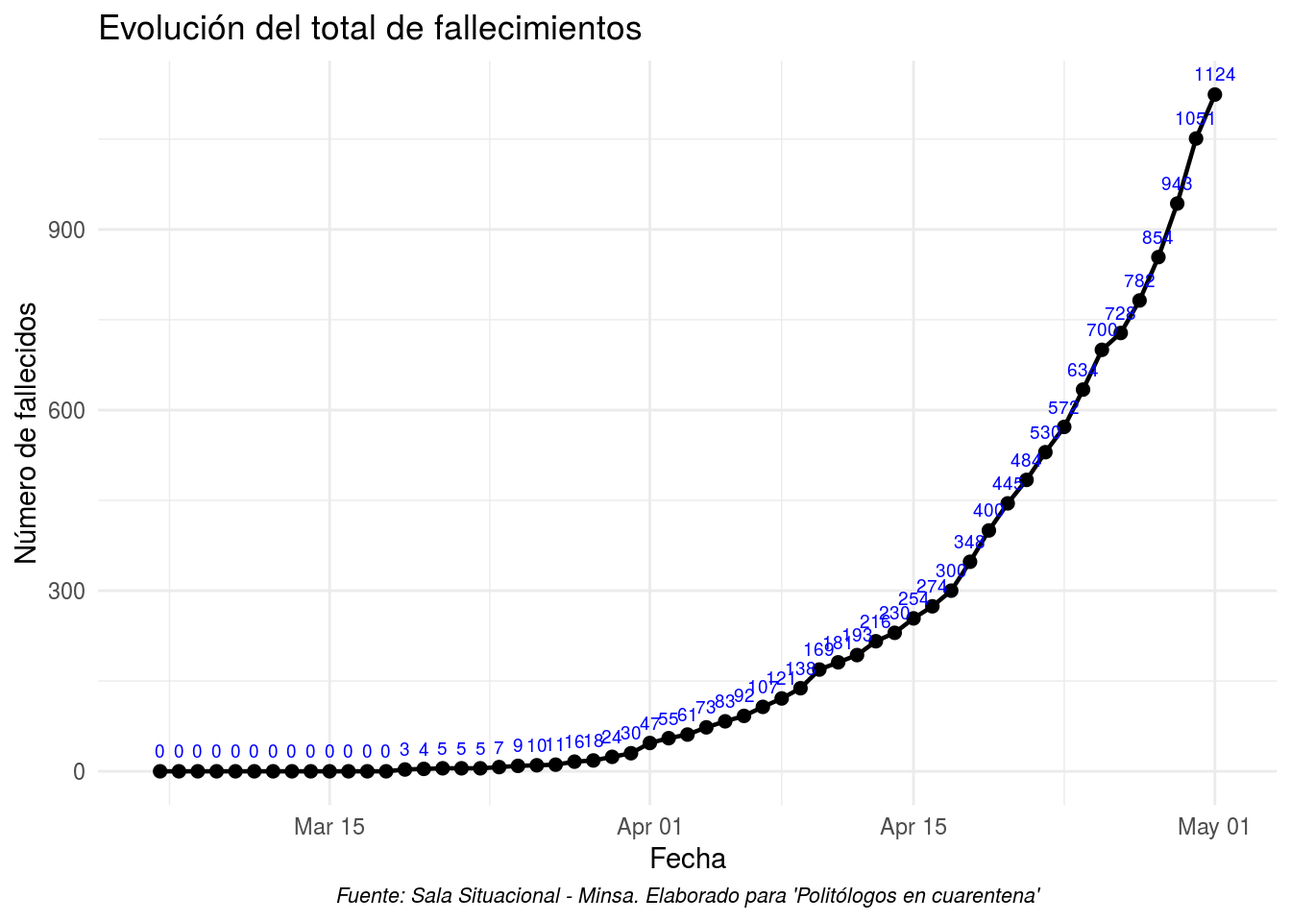
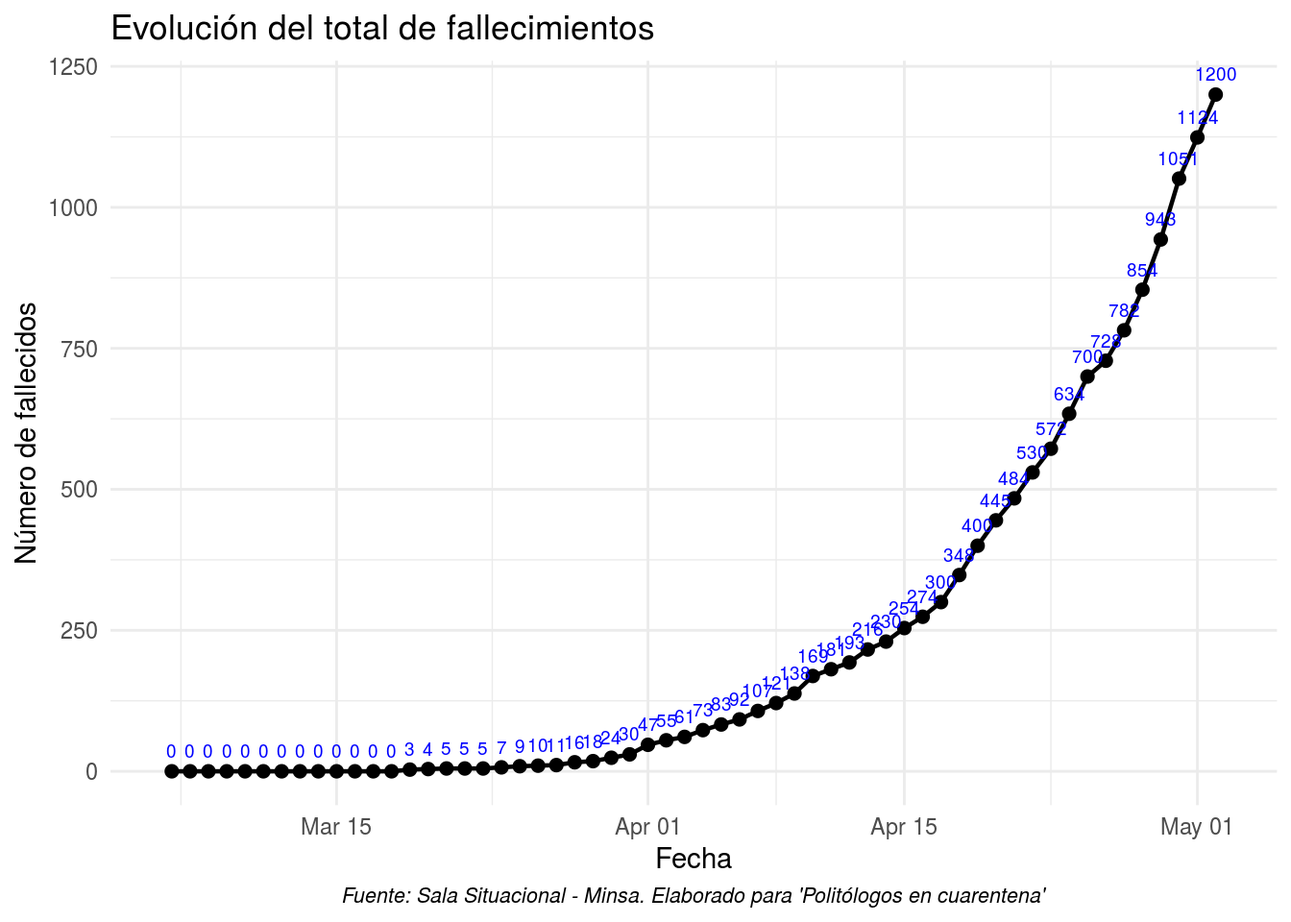
Casos para el 02 de mayo

diff --git a/nacional.html b/nacional.html
@@ -354,8 +354,8 @@ La <strong>taxonomía NATO</strong> (acrónimo de las palabras <em>nodality</em>
 <p>
 Entonces, <strong>¿Cuáles han sido los instrumentos de política puestos en práctica por el gobierno para enfrentar la crisis del COVID-19?</strong>
 </p>
-<div id="htmlwidget-6c8512947f2e7fa01e92" style="width:100%;height:auto;" class="datatables html-widget"></div>
-<script type="application/json" data-for="htmlwidget-6c8512947f2e7fa01e92">{"x":{"filter":"none","data":[["2020-05-01","2020-04-30","2020-04-29","2020-04-29","2020-04-29","2020-04-27","2020-04-14","2020-04-09","2020-04-02","2020-04-02","2020-04-01","2020-03-30","2020-03-30","2020-03-30","2020-03-29","2020-03-28","2020-03-26","2020-03-26","2020-03-26","2020-03-26","2020-03-26","2020-03-20","2020-03-20","2020-03-20","2020-03-20","2020-03-18","2020-03-18","2020-03-17","2020-03-17","2020-03-17","2020-03-16","2020-03-15","2020-03-15","2020-03-15","2020-03-15","2020-03-15","2020-03-15","2020-03-15","2020-03-15","2020-03-15","2020-03-14","2020-03-14","2020-03-13","2020-03-12","2020-03-12","2020-03-12","2020-03-12","2020-03-11","2020-03-11","2020-03-09","2020-03-08","2020-03-06","2020-03-06","2020-03-06"],["Vivienda","Economía","Economía","Abastecimiento","Economía","Población vulnerable","Justicia","Economía","Orden Público","Anticorrupción","Salud","Salud","Orden Público","Laboral","Educación","Economía","Orden Público","Orden Público","Población vulnerable","Economía","Economía","Salud","Salud","Laboral","Economía","Orden Público","Servicios públicos","Orden Público","Economía","Abastecimiento","Población vulnerable","Orden Público","Orden Público","Orden Público","Transporte","Transporte","Laboral","Laboral","Salud","Salud","Economía","Orden Público","Obligaciones tributarias","Educación","Orden Público","Orden Público","Obligaciones tributarias","Orden Público","Orden Público","Salud","Salud","Salud","Salud","Salud"],["Aprueban “Lineamientos de prevención y control frente a la propagación del COVID-19 en la ejecución de obras de construcción”","Aprobación del retiro del 25% de los fondos de AFP","Grupo de Trabajo sobre la adopción de medidas gubernamentales y de comportamiento social","Cierre por 10 días del Mercado Caqueta para su desinfección y apertura de mercado itinerante en la Av. Zarumilla para el abastecimiento temporal","Se habilita el retiro de un máximo de 3000 soles de la AFP","Se aprueba el \"Decreto Legislativo que establece medidas para garantizar la atención y protección de las víctimas de violencia contra las mujeres y los integrantes del grupo familiar durante la emergencia sanitaria declarada por el COVID-19\", mediante el cual se simplifica el procedimiento para atención a víctimas.","Aplicación de la conversión automática de la pena a arresto domiciliario para personas condenadas por el delito de omisión de asistencia familiar con el objetivo de reducir el hacinamiento en los centro penitenciarios y evitar contagios de COVID-19","Lanzamiento del aplicativo web que permite el seguimiento del presupuesto asignado para mitigar efectos del COVID-19","Se restringe la movilización de hombres y mujeres a días determinados, para reducir la circulación de personas. Mujeres: martes, jueves y sábados. Hombres: lunes, miércoles y viernes","Se dispone el uso obligatorio de la \"Plataforma  para la Transparencia de la Gestión Pública en la Emergencia Sanitaria COVID-19\" por parte de los gobiernos locales","Se apertura la plataforma virtual \"Perú en tus manos\"","Especificaciones para fabricación de mascarillas textiles de uso comunitario","Modificación del horario de Inmovilizacion Social Obligatoria desde las 6 pm. hasta las 5 am. a nivel nacional. Excepción de Loreto, Piura, Lambayeque y La Libertad, Tumbes donde se aplicará desde las 4 pm.","Autorización de los 2000 soles de AFP para aquellos trabajadores que no estan en planilla de los ultimos 12 meses.","Aprobación de los criterios para la supervisión de la adaptación de la educación no presencial, con caracter excepcional, en las universidades y escuelas de posgrado","Aprobación de Contrato de Fideicomiso de Administración del Fondo de Apoyo Empresarial a la MYPE","Ampliación de Estado de Emergencia por 13 dias calendarios","Registro de personas infractoras del Estado de Emergencia para derivarse al Ministerio Público","Entrega de canasta basica a familias vulnerables","Suspension del mes de abril a los aportes en AFP","Subsidio para el pago de planilla de empleadores del sector privado orientado a la preservación del empleo","App para registro y pruebas autoaplicadas","Aumento constante de pruebas diarias aplicadas","Se establece la licencia con goce de haber compensable.","Apoyo financiero a la MYPE y financiamiento de acciones ante los efectos del COVID-19","Inmovilizacion Social Obligatorio (de 8 pm. a 5 am.)","Postergacion de pagos de servicios publicos del mes de marzo","Autorización de solicitud de pase de tránsito","Ampliación de la vigencia de los DNI caducos o próximos a caducar, para acceder a bienes y servicios","Prorrogan vigencia de títulos habilitantes en materia de licencias de conducir, servicios de transporte de personas y de carga y mercancía","Bono de 380 soles para familias en situación en situación vulnerable","Declaración de Estado de Emergencia por 15 días (suspensión de derechos constitucionales)","Suspensión de acceso publico a lugares y toda actividad masiva","Cierre temporal de fronteras durante el tiempo de Estado de Emergencia","Transporte urbano reduce oferta en 50%","Restricción de transporte interprovincial (exceptuando a carga y/o mercancía)","Autorización del trabajo remoto para el sector publico y privado","Subsidio a trabajadores con COVID-19","#quedateencasa #yomequedoencasa","Reporte diarios del avance de las medidas por parte del Presidente","Amplían el alcance de la cobertura del Fondo CRECER para las Pymes","Suspensión temporal de recepción de naves crucero","Reduccion a 0% de tasa arancelaria a la importación de bienes vinculados a la Emergencia Sanitaria","Postergación o suspensión de actividades en los universidades e institutos públicos o privados ","Prohibicion de cualquier espectáculo de más de 300 personas y locales al 50% de aforo","Suspensión de vuelos a Europa y Asia por 30 dias","Aplazamiento de la declaracion de impuestos","Aislamiento domiciliario por catorce (14) días para personas provenientes de España, Italia y China","Postergación o suspensión de actividades en los centros educativos públicos o privados ","Guía para la prevención del COVID-19 en el ámbito laboral","Declaración Jurada de Salud del Viajero para prevenir el coronavirus (COVID-19)","Campañas de promoción de lavado de manos","Inicio de reportes diarios de casos confirmados","Habilitación de la Linea 113"],["Autoridad","Tesoro","Nodalidad","Autoridad","Tesoro","Autoridad","Autoridad","Nodalidad","Autoridad","Nodalidad","Nodalidad","Autoridad","Autoridad","Tesoro","Autoridad","Tesoro","Autoridad","Autoridad","Tesoro","Tesoro","Tesoro","Nodalidad","Nodalidad","Autoridad","Tesoro","Autoridad","Tesoro","Nodalidad","Tesoro","Organización","Tesoro","Autoridad","Autoridad","Autoridad","Autoridad","Autoridad","Autoridad","Tesoro","Nodalidad","Nodalidad","Tesoro","Autoridad","Tesoro","Autoridad","Autoridad","Autoridad","Tesoro","Autoridad","Autoridad","Autoridad","Nodalidad","Nodalidad","Nodalidad","Organización"]],"container":"<table class=\"display\">\n  <thead>\n    <tr>\n      <th>Fecha<\/th>\n      <th>Sector<\/th>\n      <th>Instrumento<\/th>\n      <th>Tipo<\/th>\n    <\/tr>\n  <\/thead>\n<\/table>","options":{"pageLength":10,"lengthMenu":[10,15,20],"language":{"lengthMenu":"Mostrar _MENU_ entradas","info":"Mostrando _START_ al _END_ de _TOTAL_ entradas","search":"Buscar:","paginate":{"previous":"Anterior","next":"Siguiente"}},"order":[],"autoWidth":false,"orderClasses":false}},"evals":[],"jsHooks":[]}</script>
+<div id="htmlwidget-74da777e91b963ef75cc" style="width:100%;height:auto;" class="datatables html-widget"></div>
+<script type="application/json" data-for="htmlwidget-74da777e91b963ef75cc">{"x":{"filter":"none","data":[["2020-05-01","2020-04-30","2020-04-29","2020-04-29","2020-04-29","2020-04-27","2020-04-14","2020-04-09","2020-04-02","2020-04-02","2020-04-01","2020-03-30","2020-03-30","2020-03-30","2020-03-29","2020-03-28","2020-03-26","2020-03-26","2020-03-26","2020-03-26","2020-03-26","2020-03-20","2020-03-20","2020-03-20","2020-03-20","2020-03-18","2020-03-18","2020-03-17","2020-03-17","2020-03-17","2020-03-16","2020-03-15","2020-03-15","2020-03-15","2020-03-15","2020-03-15","2020-03-15","2020-03-15","2020-03-15","2020-03-15","2020-03-14","2020-03-14","2020-03-13","2020-03-12","2020-03-12","2020-03-12","2020-03-12","2020-03-11","2020-03-11","2020-03-09","2020-03-08","2020-03-06","2020-03-06","2020-03-06"],["Vivienda","Economía","Economía","Abastecimiento","Economía","Población vulnerable","Justicia","Economía","Orden Público","Anticorrupción","Salud","Salud","Orden Público","Laboral","Educación","Economía","Orden Público","Orden Público","Población vulnerable","Economía","Economía","Salud","Salud","Laboral","Economía","Orden Público","Servicios públicos","Orden Público","Economía","Abastecimiento","Población vulnerable","Orden Público","Orden Público","Orden Público","Transporte","Transporte","Laboral","Laboral","Salud","Salud","Economía","Orden Público","Obligaciones tributarias","Educación","Orden Público","Orden Público","Obligaciones tributarias","Orden Público","Orden Público","Salud","Salud","Salud","Salud","Salud"],["Aprueban “Lineamientos de prevención y control frente a la propagación del COVID-19 en la ejecución de obras de construcción”","Aprobación del retiro del 25% de los fondos de AFP","Grupo de Trabajo sobre la adopción de medidas gubernamentales y de comportamiento social","Cierre por 10 días del Mercado Caqueta para su desinfección y apertura de mercado itinerante en la Av. Zarumilla para el abastecimiento temporal","Se habilita el retiro de un máximo de 3000 soles de la AFP","Se aprueba el \"Decreto Legislativo que establece medidas para garantizar la atención y protección de las víctimas de violencia contra las mujeres y los integrantes del grupo familiar durante la emergencia sanitaria declarada por el COVID-19\", mediante el cual se simplifica el procedimiento para atención a víctimas.","Aplicación de la conversión automática de la pena a arresto domiciliario para personas condenadas por el delito de omisión de asistencia familiar con el objetivo de reducir el hacinamiento en los centro penitenciarios y evitar contagios de COVID-19","Lanzamiento del aplicativo web que permite el seguimiento del presupuesto asignado para mitigar efectos del COVID-19","Se restringe la movilización de hombres y mujeres a días determinados, para reducir la circulación de personas. Mujeres: martes, jueves y sábados. Hombres: lunes, miércoles y viernes","Se dispone el uso obligatorio de la \"Plataforma  para la Transparencia de la Gestión Pública en la Emergencia Sanitaria COVID-19\" por parte de los gobiernos locales","Se apertura la plataforma virtual \"Perú en tus manos\"","Especificaciones para fabricación de mascarillas textiles de uso comunitario","Modificación del horario de Inmovilizacion Social Obligatoria desde las 6 pm. hasta las 5 am. a nivel nacional. Excepción de Loreto, Piura, Lambayeque y La Libertad, Tumbes donde se aplicará desde las 4 pm.","Autorización de los 2000 soles de AFP para aquellos trabajadores que no estan en planilla de los ultimos 12 meses.","Aprobación de los criterios para la supervisión de la adaptación de la educación no presencial, con caracter excepcional, en las universidades y escuelas de posgrado","Aprobación de Contrato de Fideicomiso de Administración del Fondo de Apoyo Empresarial a la MYPE","Ampliación de Estado de Emergencia por 13 dias calendarios","Registro de personas infractoras del Estado de Emergencia para derivarse al Ministerio Público","Entrega de canasta basica a familias vulnerables","Suspension del mes de abril a los aportes en AFP","Subsidio para el pago de planilla de empleadores del sector privado orientado a la preservación del empleo","App para registro y pruebas autoaplicadas","Aumento constante de pruebas diarias aplicadas","Se establece la licencia con goce de haber compensable.","Apoyo financiero a la MYPE y financiamiento de acciones ante los efectos del COVID-19","Inmovilizacion Social Obligatorio (de 8 pm. a 5 am.)","Postergacion de pagos de servicios publicos del mes de marzo","Autorización de solicitud de pase de tránsito","Ampliación de la vigencia de los DNI caducos o próximos a caducar, para acceder a bienes y servicios","Prorrogan vigencia de títulos habilitantes en materia de licencias de conducir, servicios de transporte de personas y de carga y mercancía","Bono de 380 soles para familias en situación en situación vulnerable","Declaración de Estado de Emergencia por 15 días (suspensión de derechos constitucionales)","Suspensión de acceso publico a lugares y toda actividad masiva","Cierre temporal de fronteras durante el tiempo de Estado de Emergencia","Transporte urbano reduce oferta en 50%","Restricción de transporte interprovincial (exceptuando a carga y/o mercancía)","Autorización del trabajo remoto para el sector publico y privado","Subsidio a trabajadores con COVID-19","#quedateencasa #yomequedoencasa","Reporte diarios del avance de las medidas por parte del Presidente","Amplían el alcance de la cobertura del Fondo CRECER para las Pymes","Suspensión temporal de recepción de naves crucero","Reduccion a 0% de tasa arancelaria a la importación de bienes vinculados a la Emergencia Sanitaria","Postergación o suspensión de actividades en los universidades e institutos públicos o privados ","Prohibicion de cualquier espectáculo de más de 300 personas y locales al 50% de aforo","Suspensión de vuelos a Europa y Asia por 30 dias","Aplazamiento de la declaracion de impuestos","Aislamiento domiciliario por catorce (14) días para personas provenientes de España, Italia y China","Postergación o suspensión de actividades en los centros educativos públicos o privados ","Guía para la prevención del COVID-19 en el ámbito laboral","Declaración Jurada de Salud del Viajero para prevenir el coronavirus (COVID-19)","Campañas de promoción de lavado de manos","Inicio de reportes diarios de casos confirmados","Habilitación de la Linea 113"],["Autoridad","Tesoro","Nodalidad","Autoridad","Tesoro","Autoridad","Autoridad","Nodalidad","Autoridad","Nodalidad","Nodalidad","Autoridad","Autoridad","Tesoro","Autoridad","Tesoro","Autoridad","Autoridad","Tesoro","Tesoro","Tesoro","Nodalidad","Nodalidad","Autoridad","Tesoro","Autoridad","Tesoro","Nodalidad","Tesoro","Organización","Tesoro","Autoridad","Autoridad","Autoridad","Autoridad","Autoridad","Autoridad","Tesoro","Nodalidad","Nodalidad","Tesoro","Autoridad","Tesoro","Autoridad","Autoridad","Autoridad","Tesoro","Autoridad","Autoridad","Autoridad","Nodalidad","Nodalidad","Nodalidad","Organización"]],"container":"<table class=\"display\">\n  <thead>\n    <tr>\n      <th>Fecha<\/th>\n      <th>Sector<\/th>\n      <th>Instrumento<\/th>\n      <th>Tipo<\/th>\n    <\/tr>\n  <\/thead>\n<\/table>","options":{"pageLength":10,"lengthMenu":[10,15,20],"language":{"lengthMenu":"Mostrar _MENU_ entradas","info":"Mostrando _START_ al _END_ de _TOTAL_ entradas","search":"Buscar:","paginate":{"previous":"Anterior","next":"Siguiente"}},"order":[],"autoWidth":false,"orderClasses":false}},"evals":[],"jsHooks":[]}</script>
 </div>
 <div id="redes-de-subsistemas-politicos" class="section level3">
 <h3>2.3. Redes de subsistemas politicos</h3>
@@ -430,8 +430,8 @@ Su importancia radica en que son aquellos funcionarios quienes estan implementan
 Según el reporte de conflictos mensual emitido por la Defensoria del Pueblo, para el mes de marzo se registraron <strong>18 acciones de protesta</strong> vinculadas a la situación de emergencia por causa del COVID-19. En el mes de abril estas manifestaciones se han venido incrementando diariamente.
 </div>
 </p>
-<div id="htmlwidget-6fc2b153655c5b4f0984" style="width:100%;height:auto;" class="datatables html-widget"></div>
-<script type="application/json" data-for="htmlwidget-6fc2b153655c5b4f0984">{"x":{"filter":"none","data":[["2020-04-29","2020-04-29","2020-04-29","2020-04-29","2020-04-27","2020-04-24","2020-04-20","2020-03-30","2020-03-28","2020-03-27","2020-03-27","2020-03-24","2020-03-24","2020-03-19","2020-03-19","2020-03-18","2020-03-17","2020-03-17","2020-03-11","2020-03-11","2020-03-11","2020-03-10","2020-03-06","2020-03-02"],["Enfermeras del Hospital Militar","Padres de colegios privados","Ciudadanos loretanos","Padres de colegios privados en Juliaca","Técnicos y enfermeros del hospital Hipólito Unanue","Padres del Colegio Technology School","Personal de salud del Hospital Maria Auxiliadora","Presos del penal de Yanamilla\n","Población del sector calle\nDos ","Médicos del Hospital Honorio Delgado Espinoza","Población del sector de Chicago de Trujillo","Transportistas de Carga Pesada","Asociación de\nTransportes de Carga\nPeligrosa\n","Poblacion de Lima","Ciudadanos varados en\nlas afueras del\naeropuerto Jorge Chávez","Médicos del Hospital César Garayar García","Trabajadores del Programa Surco Verde","Población del asentamiento humano Complejo Habitaciona","Población del distrito de\nVíctor Larco","Personal de salud del Hospital Regional de Áncash - Eleazar Gusmán Barrón","Médicos, enfermeras y trabajadores del Hospital Carlos Alcántara","Médicos del Hospital Goyoneche","Médicos y personal del Hospital Uldarico Roca Fernández","Población de Nuevo Chimbote"],["Las enfermeras del Hospital Militar se vieron obligadas a protestar fuera de dicho nosocomio en Lima, debido a que no se les entrega protección adecuada para proteger su vida y salud del coronavirus COVID-19","Padres protestan en las afueras del colegio Trilce de Chorrillos para exigir reducción del 50% de la pensión","Loretanos bloquearon la Av. Faucett exigiendo traslado humanitario","Juliaca: padres protestan para lograr rebaja de pensiones en colegios privados","El personal pidió que se cumpla con sus pagos y se les asignen los implementos necesarios para que continúen luchando contra el COVID-19.","Padres protestan en los exteriores de colegios particulares por cobro de pensiones","Un grupo de profesionales de la salud, entre médicos, enfermeras y trabajadores, del hospital María Auxiliadora realizó una protesta frente a dicha institución, en Villa María del Triunfo, para reclamar por la falta de equipos de protección personal (EPP). ","Ampliación hasta el próximo 31 de octubre de la vigencia de la Habilitación del conductor y de la Tarjeta Única de Circulación (TUC).","Rechazan que el recinto deportivo Campeones del 36 sea considerado como albergue para pacientes positivos de coronavirus.","Rechazan la decisión de utilizar el área sensible como zona de aislamiento temporal para pacientes graves por coronavirus","Rechazan la instalación de un hospital itinerante para pacientes de coronavirus en el complejo deportivo Chan Chan.\n","Exigen se anule el cobro de peajes en pleno Estado de Emergencia Nacional","Denuncian el funcionamiento de la empresa minera Lincuna en pleno Estado de Emergencia Nacional","Exigen a las autoridades ayuda y que se disponga de un vuelo humanitario a la ciudad de Lima.","Exigen a las autoridades ayuda y que se disponga de vuelos humanitarios para los destinos de Arequipa, Piura, Cusco y Puerto Maldonado.","Exigen implementos necesarios y suficientes para poder atender los casos de pacientes con coronavirus.","Denuncian que pese a la prohibición de movimiento por el Estado de Emergencia a causa del coronavirus, la Municipalidad de Surco les obliga a trabajar con normalidad.","Exigen recibir el bono de S/. 380 anunciado por el Gobierno Nacional en el marco del Estado de Emergencia Nacional por el coronavirus.","Rechazan que el Centro Preventorio de EsSalud sea considerado para la atención de presuntos portadores de\ncoronavirus.","Exigen mejores condiciones e implementos como mascarillas, botas, mandiles; que ayuden a enfrentar posibles casos de coronavirus.","Denuncian la improvisación de Essalud para la atención de pacientes infectados con el nuevo coronavirus. Asimismo, exigen mejores condiciones e implementos como mascarillas, botas, mandiles, entre otros","Exigen mejores condiciones e implementos como mascarillas, botas, mandiles; que ayuden a enfrentar\nposibles casos de coronavirus.\n","Rechazan la designación del hospital Uldarico Roca Fernández como uno de los centros médicos para atender\ncasos de coronavirus en Perú.","Exigen el cierre temporal del puerto de Chimbote para evitar el ingreso de posibles casos del nuevo coronavirus\nen la región."],["Plantón","Plantón","Bloqueo de vía","Plantón","Plantón","Plantón","Plantón","Plantón","Plantón","Plantón","Plantón","Concentración","Concentración","Plantón","Concentración","Plantón","Paralización de actividades\n","Concentración","Concentración","Plantón","Plantón","Plantón","Plantón","Concentración"]],"container":"<table class=\"display\">\n  <thead>\n    <tr>\n      <th>Fecha<\/th>\n      <th>Actores en protesta<\/th>\n      <th>Contenido de demandas<\/th>\n      <th>Tipo de acción colectiva<\/th>\n    <\/tr>\n  <\/thead>\n<\/table>","options":{"order":[],"autoWidth":false,"orderClasses":false}},"evals":[],"jsHooks":[]}</script>
+<div id="htmlwidget-3da7ff209bd43653740c" style="width:100%;height:auto;" class="datatables html-widget"></div>
+<script type="application/json" data-for="htmlwidget-3da7ff209bd43653740c">{"x":{"filter":"none","data":[["2020-04-29","2020-04-29","2020-04-29","2020-04-29","2020-04-27","2020-04-24","2020-04-20","2020-03-30","2020-03-28","2020-03-27","2020-03-27","2020-03-24","2020-03-24","2020-03-19","2020-03-19","2020-03-18","2020-03-17","2020-03-17","2020-03-11","2020-03-11","2020-03-11","2020-03-10","2020-03-06","2020-03-02"],["Enfermeras del Hospital Militar","Padres de colegios privados","Ciudadanos loretanos","Padres de colegios privados en Juliaca","Técnicos y enfermeros del hospital Hipólito Unanue","Padres del Colegio Technology School","Personal de salud del Hospital Maria Auxiliadora","Presos del penal de Yanamilla\n","Población del sector calle\nDos ","Médicos del Hospital Honorio Delgado Espinoza","Población del sector de Chicago de Trujillo","Transportistas de Carga Pesada","Asociación de\nTransportes de Carga\nPeligrosa\n","Poblacion de Lima","Ciudadanos varados en\nlas afueras del\naeropuerto Jorge Chávez","Médicos del Hospital César Garayar García","Trabajadores del Programa Surco Verde","Población del asentamiento humano Complejo Habitaciona","Población del distrito de\nVíctor Larco","Personal de salud del Hospital Regional de Áncash - Eleazar Gusmán Barrón","Médicos, enfermeras y trabajadores del Hospital Carlos Alcántara","Médicos del Hospital Goyoneche","Médicos y personal del Hospital Uldarico Roca Fernández","Población de Nuevo Chimbote"],["Las enfermeras del Hospital Militar se vieron obligadas a protestar fuera de dicho nosocomio en Lima, debido a que no se les entrega protección adecuada para proteger su vida y salud del coronavirus COVID-19","Padres protestan en las afueras del colegio Trilce de Chorrillos para exigir reducción del 50% de la pensión","Loretanos bloquearon la Av. Faucett exigiendo traslado humanitario","Juliaca: padres protestan para lograr rebaja de pensiones en colegios privados","El personal pidió que se cumpla con sus pagos y se les asignen los implementos necesarios para que continúen luchando contra el COVID-19.","Padres protestan en los exteriores de colegios particulares por cobro de pensiones","Un grupo de profesionales de la salud, entre médicos, enfermeras y trabajadores, del hospital María Auxiliadora realizó una protesta frente a dicha institución, en Villa María del Triunfo, para reclamar por la falta de equipos de protección personal (EPP). ","Ampliación hasta el próximo 31 de octubre de la vigencia de la Habilitación del conductor y de la Tarjeta Única de Circulación (TUC).","Rechazan que el recinto deportivo Campeones del 36 sea considerado como albergue para pacientes positivos de coronavirus.","Rechazan la decisión de utilizar el área sensible como zona de aislamiento temporal para pacientes graves por coronavirus","Rechazan la instalación de un hospital itinerante para pacientes de coronavirus en el complejo deportivo Chan Chan.\n","Exigen se anule el cobro de peajes en pleno Estado de Emergencia Nacional","Denuncian el funcionamiento de la empresa minera Lincuna en pleno Estado de Emergencia Nacional","Exigen a las autoridades ayuda y que se disponga de un vuelo humanitario a la ciudad de Lima.","Exigen a las autoridades ayuda y que se disponga de vuelos humanitarios para los destinos de Arequipa, Piura, Cusco y Puerto Maldonado.","Exigen implementos necesarios y suficientes para poder atender los casos de pacientes con coronavirus.","Denuncian que pese a la prohibición de movimiento por el Estado de Emergencia a causa del coronavirus, la Municipalidad de Surco les obliga a trabajar con normalidad.","Exigen recibir el bono de S/. 380 anunciado por el Gobierno Nacional en el marco del Estado de Emergencia Nacional por el coronavirus.","Rechazan que el Centro Preventorio de EsSalud sea considerado para la atención de presuntos portadores de\ncoronavirus.","Exigen mejores condiciones e implementos como mascarillas, botas, mandiles; que ayuden a enfrentar posibles casos de coronavirus.","Denuncian la improvisación de Essalud para la atención de pacientes infectados con el nuevo coronavirus. Asimismo, exigen mejores condiciones e implementos como mascarillas, botas, mandiles, entre otros","Exigen mejores condiciones e implementos como mascarillas, botas, mandiles; que ayuden a enfrentar\nposibles casos de coronavirus.\n","Rechazan la designación del hospital Uldarico Roca Fernández como uno de los centros médicos para atender\ncasos de coronavirus en Perú.","Exigen el cierre temporal del puerto de Chimbote para evitar el ingreso de posibles casos del nuevo coronavirus\nen la región."],["Plantón","Plantón","Bloqueo de vía","Plantón","Plantón","Plantón","Plantón","Plantón","Plantón","Plantón","Plantón","Concentración","Concentración","Plantón","Concentración","Plantón","Paralización de actividades\n","Concentración","Concentración","Plantón","Plantón","Plantón","Plantón","Concentración"]],"container":"<table class=\"display\">\n  <thead>\n    <tr>\n      <th>Fecha<\/th>\n      <th>Actores en protesta<\/th>\n      <th>Contenido de demandas<\/th>\n      <th>Tipo de acción colectiva<\/th>\n    <\/tr>\n  <\/thead>\n<\/table>","options":{"order":[],"autoWidth":false,"orderClasses":false}},"evals":[],"jsHooks":[]}</script>
 </div>
 <div id="noticias-demandas-y-pronunciamientos" class="section level3">
 <h3>2.7. Noticias, demandas y pronunciamientos</h3>

diff --git a/subnacional.html b/subnacional.html
@@ -312,8 +312,8 @@ $(document).ready(function () {
 <h3>3.1. Gobiernos regionales</h3>
 <div id="datos-sobre-casos-y-muestras-realizadas" class="section level4">
 <h4>3.1.1. Datos sobre casos y muestras realizadas</h4>
-<div id="htmlwidget-2e32f94b10c49dae98e1" style="width:100%;height:auto;" class="datatables html-widget"></div>
-<script type="application/json" data-for="htmlwidget-2e32f94b10c49dae98e1">{"x":{"filter":"none","data":[["Amazonas","Áncash","Apurímac","Arequipa","Ayacucho","Cajamarca","Callao","Cusco","Huancavelica","Huánuco","Ica","Junín","La Libertad","Lambayeque","Lima Metropolitana","Lima Región","Loreto","Madre de Dios","Moquegua","Pasco","Piura","Puno","San Martín","Tacna","Tumbes","Ucayali"],[2278,9295,2867,10978,2291,4037,13614,4044,1916,3748,4896,5172,8132,10002,185104,2866,6122,5347,3651,2395,9773,4237,4760,4749,2822,3156],[122,693,78,571,95,170,3219,212,88,189,550,394,668,2176,22985,576,1202,113,120,113,1207,105,238,111,310,671],["545,36","781,84","706,58","793,94","371,81","301,04","1368,94","335,45","551,15","519,80","575,48","415,08","457,35","835,41","1935,77","314,80","692,92","3790,32","2087,92","942,67","526,33","361,30","585,21","1442,01","1254,99","635,70"],["29,21","58,29","19,22","41,30","15,42","12,68","323,68","17,59","25,31","26,21","64,65","31,62","37,57","181,75","240,37","63,27","136,05","80,10","68,63","44,48","65,00","8,95","29,26","33,70","137,86","135,16"],["0,0536","0,0746","0,0272","0,0520","0,0415","0,0421","0,2364","0,0524","0,0459","0,0504","0,1123","0,0762","0,0821","0,2176","0,1225","0,2020","0,1963","0,0211","0,0329","0,0472","0,1235","0,0248","0,0500","0,0234","0,1099","0,2126"]],"container":"<table class=\"display\">\n  <thead>\n    <tr>\n      <th>Región<\/th>\n      <th>Muestras realizadas<\/th>\n      <th>Positivos<\/th>\n      <th>Muestras x 100 mil hab.<\/th>\n      <th>Positivos x 100 mil hab.<\/th>\n      <th>Porcentaje de positivos<\/th>\n    <\/tr>\n  <\/thead>\n<\/table>","options":{"pageLength":10,"lengthMenu":[10,15,20],"language":{"lengthMenu":"Mostrar _MENU_ entradas","info":"Mostrando _START_ al _END_ de _TOTAL_ entradas","search":"Buscar:","paginate":{"previous":"Anterior","next":"Siguiente"}},"columnDefs":[{"className":"dt-right","targets":[1,2]}],"order":[],"autoWidth":false,"orderClasses":false}},"evals":[],"jsHooks":[]}</script>
+<div id="htmlwidget-82d9d2b7cbaf17b8b4fd" style="width:100%;height:auto;" class="datatables html-widget"></div>
+<script type="application/json" data-for="htmlwidget-82d9d2b7cbaf17b8b4fd">{"x":{"filter":"none","data":[["Amazonas","Áncash","Apurímac","Arequipa","Ayacucho","Cajamarca","Callao","Cusco","Huancavelica","Huánuco","Ica","Junín","La Libertad","Lambayeque","Lima Metropolitana","Lima Región","Loreto","Madre de Dios","Moquegua","Pasco","Piura","Puno","San Martín","Tacna","Tumbes","Ucayali"],[2497,9832,3141,121125,2547,4545,14743,4407,2282,4023,5204,5695,8986,10951,200938,3112,6504,5529,3875,2555,10430,4592,5181,5271,3130,3515],[129,822,83,624,104,201,3458,221,109,206,580,436,720,2360,25098,620,1355,116,123,122,1396,116,248,126,326,760],["597,79","827,01","774,10","8759,84","413,36","338,92","1482,46","365,57","656,43","557,94","611,68","457,05","505,38","914,67","2101,36","341,82","736,15","3919,33","2216,02","1005,65","561,72","391,58","636,97","1600,51","1391,96","708,01"],["30,88","69,14","20,46","45,13","16,88","14,99","347,71","18,33","31,35","28,57","68,17","34,99","40,49","197,12","262,47","68,10","153,37","82,23","70,34","48,02","75,18","9,89","30,49","38,26","144,98","153,08"],["0,0517","0,0836","0,0264","0,0052","0,0408","0,0442","0,2346","0,0501","0,0478","0,0512","0,1115","0,0766","0,0801","0,2155","0,1225","0,2020","0,2083","0,0210","0,0317","0,0477","0,1338","0,0253","0,0479","0,0239","0,1042","0,2162"]],"container":"<table class=\"display\">\n  <thead>\n    <tr>\n      <th>Región<\/th>\n      <th>Muestras realizadas<\/th>\n      <th>Positivos<\/th>\n      <th>Muestras x 100 mil hab.<\/th>\n      <th>Positivos x 100 mil hab.<\/th>\n      <th>Porcentaje de positivos<\/th>\n    <\/tr>\n  <\/thead>\n<\/table>","options":{"pageLength":10,"lengthMenu":[10,15,20],"language":{"lengthMenu":"Mostrar _MENU_ entradas","info":"Mostrando _START_ al _END_ de _TOTAL_ entradas","search":"Buscar:","paginate":{"previous":"Anterior","next":"Siguiente"}},"columnDefs":[{"className":"dt-right","targets":[1,2]}],"order":[],"autoWidth":false,"orderClasses":false}},"evals":[],"jsHooks":[]}</script>
 <p>
 <div style="text-align:right">
 Datos actualizados al 30/04/2020. Fuente: Sala Situacional-MINSA
@@ -322,8 +322,8 @@ Datos actualizados al 30/04/2020. Fuente: Sala Situacional-MINSA
 </div>
 <div id="transferencias-a-gobiernos-regionales-y-su-ejecución" class="section level4">
 <h4>3.1.2. Transferencias a Gobiernos regionales y su ejecución</h4>
-<div id="htmlwidget-93c8a193a8e51b30af80" style="width:100%;height:auto;" class="datatables html-widget"></div>
-<script type="application/json" data-for="htmlwidget-93c8a193a8e51b30af80">{"x":{"filter":"none","data":[["Amazonas","Áncash","Apurímac","Arequipa","Ayacucho","Cajamarca","Callao","Cusco","Huancavelica","Huánuco","Ica","Junín","La Libertad","Lambayeque","Lima Región","Loreto","Madre de Dios","Moquegua","Pasco","Piura","Puno","San Martín","Tacna","Tumbes","Ucayali"],[7073705,11313781,10466356,10243476,7691956,6688978,6963746,16565465,15565430,4482678,6322219,11344507,19712032,15808843,6651779,12382984,3068104,5327475,5367561,22599835,7472345,15510806,3282096,4857483,5627832],[3572221.025,4095588.722,3202704.936,3400834.032,2076828.12,1284283.776,2534803.544,7603548.435,6054952.27,779985.972,2984087.368,5173095.192,7589132.32,4774270.586,4024326.295,5039874.488,586007.864,942963.075,858809.76,6734750.83,1494469,8546454.106,882883.824,1228943.199,2994006.624],[0.505,0.362,0.306,0.332,0.27,0.192,0.364,0.459,0.389,0.174,0.472,0.456,0.385,0.302,0.605,0.407,0.191,0.177,0.16,0.298,0.2,0.551,0.269,0.253,0.532]],"container":"<table class=\"display\">\n  <thead>\n    <tr>\n      <th>Región<\/th>\n      <th>Transferencias<\/th>\n      <th>Presupuesto ejecutado<\/th>\n      <th>Porcentaje de presupuesto ejecutado<\/th>\n    <\/tr>\n  <\/thead>\n<\/table>","options":{"pageLength":10,"lengthMenu":[10,15,20],"language":{"lengthMenu":"Mostrar _MENU_ entradas","info":"Mostrando _START_ al _END_ de _TOTAL_ entradas","search":"Buscar:","paginate":{"previous":"Anterior","next":"Siguiente"}},"columnDefs":[{"className":"dt-right","targets":[1,2,3]}],"order":[],"autoWidth":false,"orderClasses":false}},"evals":[],"jsHooks":[]}</script>
+<div id="htmlwidget-2183282c8d020dcf848f" style="width:100%;height:auto;" class="datatables html-widget"></div>
+<script type="application/json" data-for="htmlwidget-2183282c8d020dcf848f">{"x":{"filter":"none","data":[["Amazonas","Áncash","Apurímac","Arequipa","Ayacucho","Cajamarca","Callao","Cusco","Huancavelica","Huánuco","Ica","Junín","La Libertad","Lambayeque","Lima Región","Loreto","Madre de Dios","Moquegua","Pasco","Piura","Puno","San Martín","Tacna","Tumbes","Ucayali"],[7073705,11313781,10466356,10243476,7691956,6688978,6963746,16565465,15565430,4482678,6322219,11344507,19712032,15808843,6651779,12382984,3068104,5327475,5367561,22599835,7472345,15510806,3282096,4857483,5627832],[3572221.025,4152157.627,3202704.936,3400834.032,2076828.12,1284283.776,2534803.544,7603548.435,6054952.27,779985.972,2984087.368,5173095.192,7589132.32,4774270.586,4024326.295,5039874.488,586007.864,942963.075,858809.76,6734750.83,1494469,8546454.106,882883.824,1228943.199,2994006.624],[0.505,0.367,0.306,0.332,0.27,0.192,0.364,0.459,0.389,0.174,0.472,0.456,0.385,0.302,0.605,0.407,0.191,0.177,0.16,0.298,0.2,0.551,0.269,0.253,0.532]],"container":"<table class=\"display\">\n  <thead>\n    <tr>\n      <th>Región<\/th>\n      <th>Transferencias<\/th>\n      <th>Presupuesto ejecutado<\/th>\n      <th>Porcentaje de presupuesto ejecutado<\/th>\n    <\/tr>\n  <\/thead>\n<\/table>","options":{"pageLength":10,"lengthMenu":[10,15,20],"language":{"lengthMenu":"Mostrar _MENU_ entradas","info":"Mostrando _START_ al _END_ de _TOTAL_ entradas","search":"Buscar:","paginate":{"previous":"Anterior","next":"Siguiente"}},"columnDefs":[{"className":"dt-right","targets":[1,2,3]}],"order":[],"autoWidth":false,"orderClasses":false}},"evals":[],"jsHooks":[]}</script>
 <p>
 <div style="text-align:right">
 Datos actualizados al 01/05/2020. Fuente: Consulta amigable - MEF

diff --git a/casos.html b/casos.html
@@ -321,26 +321,26 @@ En ese sentido, esta sección tiene por objetivo responder a la pregunta <strong
 </div>
 <div id="evolución-de-los-casos-positivos-detectados" class="section level3">
 <h3>1.1. Evolución de los casos positivos detectados</h3>
-<p><img src="casos_files/figure-html/unnamed-chunk-35-1.png" width="672" /></p>
+<p><img src="casos_files/figure-html/unnamed-chunk-3-1.png" width="672" /></p>
 <p>
 <img src="casos_files/figure-html/filef867d6960d.gif" /><!-- -->
 </p>
 </div>
 <div id="nuevos-casos-positivos-detectados-por-día" class="section level3">
 <h3>1.2. Nuevos casos positivos detectados por día</h3>
-<p><img src="casos_files/figure-html/unnamed-chunk-36-1.png" width="672" /></p>
+<p><img src="casos_files/figure-html/unnamed-chunk-4-1.png" width="672" /></p>
 </div>
 <div id="evolución-del-total-de-fallecimientos" class="section level3">
 <h3>1.3. Evolución del total de fallecimientos</h3>
-<p><img src="casos_files/figure-html/unnamed-chunk-37-1.png" width="672" /></p>
+<p><img src="casos_files/figure-html/unnamed-chunk-5-1.png" width="672" /></p>
 </div>
 <div id="nuevos-fallecimientos-por-día" class="section level3">
 <h3>1.4. Nuevos fallecimientos por día</h3>
-<p><img src="casos_files/figure-html/unnamed-chunk-39-1.png" width="672" /></p>
+<p><img src="casos_files/figure-html/unnamed-chunk-7-1.png" width="672" /></p>
 </div>
 <div id="evolución-de-nuevos-de-hospitalizados-por-dia" class="section level3">
 <h3>1.5. Evolución de nuevos de hospitalizados por dia</h3>
-<p><img src="casos_files/figure-html/unnamed-chunk-40-1.png" width="672" /></p>
+<p><img src="casos_files/figure-html/unnamed-chunk-8-1.png" width="672" /></p>
 </div>
 <div id="evolución-de-personas-en-uci" class="section level3">
 <h3>1.6. Evolución de personas en UCI</h3>
@@ -348,8 +348,8 @@ En ese sentido, esta sección tiene por objetivo responder a la pregunta <strong
 </div>
 <div id="evolución-en-la-disponibilidad-de-camas-uci" class="section level3">
 <h3>1.7. Evolución en la disponibilidad de camas UCI</h3>
-<div id="htmlwidget-f48fb2f7d802f864037a" style="width:100%;height:auto;" class="datatables html-widget"></div>
-<script type="application/json" data-for="htmlwidget-f48fb2f7d802f864037a">{"x":{"filter":"none","data":[["2020-04-21","2020-04-22","2020-04-23","2020-04-24","2020-04-25","2020-04-26","2020-04-27","2020-04-28","2020-04-29","2020-04-30","2020-05-01"],[525,525,652,652,719,726,773,777,810,808,null],[380,396,467,505,545,554,598,600,623,651,null],[145,129,185,147,174,172,175,177,187,157,null]],"container":"<table class=\"display\">\n  <thead>\n    <tr>\n      <th>Fecha<\/th>\n      <th>Total de camas UCI<\/th>\n      <th>Camas UCI ocupadas<\/th>\n      <th>Camas UCI disponibles<\/th>\n    <\/tr>\n  <\/thead>\n<\/table>","options":{"columnDefs":[{"className":"dt-right","targets":[1,2,3]}],"order":[],"autoWidth":false,"orderClasses":false}},"evals":[],"jsHooks":[]}</script>
+<div id="htmlwidget-cae7350941564a1b96b1" style="width:100%;height:auto;" class="datatables html-widget"></div>
+<script type="application/json" data-for="htmlwidget-cae7350941564a1b96b1">{"x":{"filter":"none","data":[["2020-04-21","2020-04-22","2020-04-23","2020-04-24","2020-04-25","2020-04-26","2020-04-27","2020-04-28","2020-04-29","2020-04-30","2020-05-01","2020-05-02"],[525,525,652,652,719,726,773,777,810,808,808,849],[380,396,467,505,545,554,598,600,623,651,658,671],[145,129,185,147,174,172,175,177,187,157,150,178]],"container":"<table class=\"display\">\n  <thead>\n    <tr>\n      <th>Fecha<\/th>\n      <th>Total de camas UCI<\/th>\n      <th>Camas UCI ocupadas<\/th>\n      <th>Camas UCI disponibles<\/th>\n    <\/tr>\n  <\/thead>\n<\/table>","options":{"columnDefs":[{"className":"dt-right","targets":[1,2,3]}],"order":[],"autoWidth":false,"orderClasses":false}},"evals":[],"jsHooks":[]}</script>
 </div>
 <div id="evolución-de-los-casos-positivos-activos" class="section level3">
 <h3>1.8. Evolución de los casos positivos activos</h3>
@@ -358,7 +358,7 @@ En ese sentido, esta sección tiene por objetivo responder a la pregunta <strong
 El número de casos activos es registrada descontando de los casos confirmados al número de muertos y los pacientes recuperados. Esta cifra ha variado en la tendencia por un aumento considerable en el número de recuperados.
 </div>
 </p>
-<p><img src="casos_files/figure-html/unnamed-chunk-42-1.png" width="672" /></p>
+<p><img src="casos_files/figure-html/unnamed-chunk-10-1.png" width="672" /></p>
 <p>
 <div style="text-align:right">
 Datos actualizados al 30/04/2020
